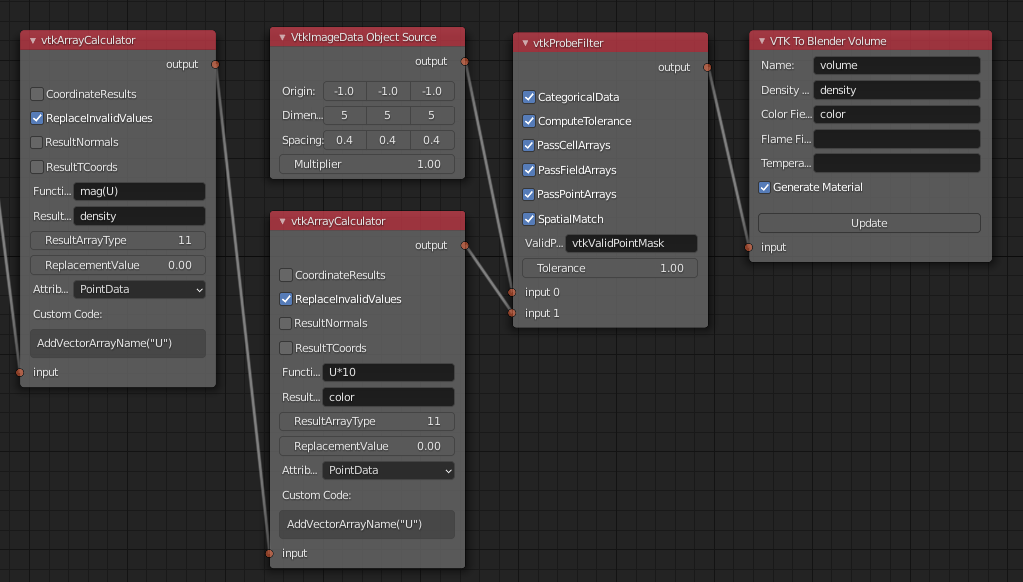
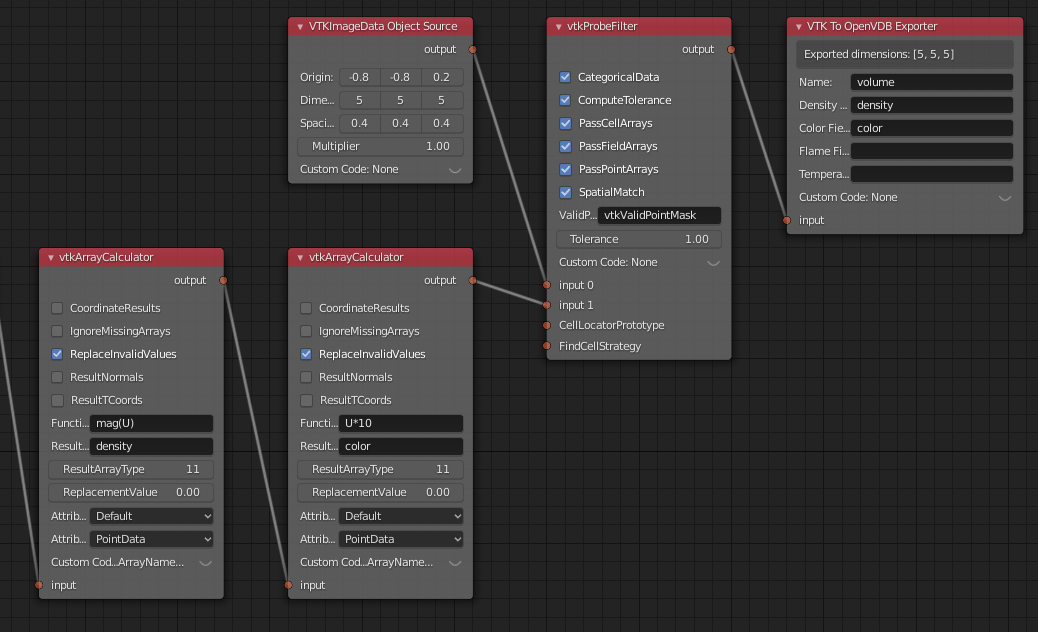
Docs: ug_nodes: Volumetric rendering

diff --git a/docs/ug_nodes.rst b/docs/ug_nodes.rst
@@ -267,21 +267,37 @@ Here is the result in 3D Viewport shown in Material Preview Mode:
 
 .. _volumetric_rendering:
 
-Volumetric Rendering
---------------------
+OpenVDB Export and Volumetric Rendering
+---------------------------------------
 
-Volumetric rendering of 3D *vtkImageData* is possible by using the
-experimental :ref:`VTKToBlenderVolume` node. You can use a custom
-*VTKImageData Object Source* node in conjunction with *vtkProbeFilter*
-to convert e.g. unstructured grid data into *vtkImageData* voxel data
-required by the volumetric conversion.
+Conversion of 3D *vtkImageData* into OpenVDB (.vdb format) and
+subsequent volumetric rendering of the OpenVDB files is possible by
+using the *VTK To OpenVDB Exporter* node. This example node tree name
+is *cubeflow_openvdb_export*. A *VTKImageData Object Source* node is
+used in conjunction with *vtkProbeFilter* to convert the unstructured
+grid data into *vtkImageData* (voxel data) required by the OpenVDB
+format.
+
+**Note:** Make sure that sampling points in *VTKImageData Object
+Source* fall inside the domain at voxel center points.
+
+**Note 2:** Location, rotation and scale are lost in the OpenVDB export.
 
 .. image:: images/ug_volumetrics_nodesetup.png
 
-Edit the generated volumetric material in Shader Editor, node setup is
-shown below. Here is the result of the example data viewed from above,
-when lit only by an added Sun lamp with strength value 10. Color is
-manipulated in the material by two Vector Math nodes to add red color
-to velocity X component and blue color to velocity Z component.
+When the *Update Node* has been run for the *VTK To OpenVDB Exporter*
+node, an intermediate .json file is saved to the location of the
+Blender file, which can be converted to .vdb format according to
+instructions in the node documentation (see
+:ref:`VTKToOpenVDBExporter`). After that, the OpenVDB file can be
+imported to Blender as a Volume Object.
+
+After importing OpenVDB file(s), you must add a volumetric material to
+the Volume Object in Blender Shader Editor. An example material node
+setup is shown below, with rendering of the result (volume_00005.vdb,
+viewed from above, using Eevee render engine), when lit only by a
+sun lamp with strength value 100. Color is manipulated in the
+material by two Vector Math nodes to add red color to velocity X
+component and blue color to velocity Z component.
 
 .. image:: images/ug_volumetrics_result.png

diff --git a/docs/BVTKNodes.rst b/docs/BVTKNodes.rst
@@ -544,6 +544,7 @@ To OpenVDB Exporter* node described next. If `pyopenvdb` becomes
 a standard part of Blender one day, this node can be resurrected.
 
 
+.. _VTKToOpenVDBExporter:
 
 VTK To OpenVDB Exporter
 ^^^^^^^^^^^^^^^^^^^^^^^
